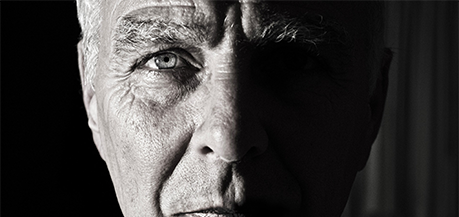
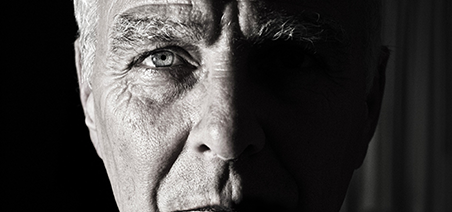
Desktop media query og andre fixes

diff --git a/index.html b/index.html
@@ -10,23 +10,21 @@
 
 <body class="container linkstate">
     <header class="sidehoved">
-        <img class="sh_logo" src="images/PotemkinLogo.jpg" alt="Potemkin Film Logo">
+        <a class="sh_link" href="index.html"><img class="sh_logo" src="images/PotemkinLogo.jpg" alt="Potemkin Film Logo"></a>
         <input class="sh_boks" type="text" placeholder="Søg...">
     </header>
 
     <div class="showreel">
-        <h2 class="fyld_showreeltekst"><a href="https://vimeo.com/299627047" target="_blank">Showreel</a></h2>
         <!--
         <img src="images/Showreel.png" class="fyld_bild">
         -->
         <video src="video/Sequence%2001_1.mp4" class="showreel_video" autoplay loop muted></video>
+        <h2 class="showreel_tekst"><a href="https://vimeo.com/299627047" target="_blank">Showreel</a></h2>
     </div>
 
     <main class="fyld">
-        <div class="fyld_element">
             <h1 class="fyld_header">Om os</h1>
             <p>Lorem ipsum dolor sit amet, consectetur adipiscing elit, sed do eiusmod tempor incididunt ut labore et dolore magna aliqua. Ut enim ad minim veniam, quis nostrud exercitation ullamco laboris nisi ut aliquip ex ea commodo consequat.</p>
-        </div>
 
         <div class="fyld_element">
             <h1 class="fyld_header">Grundhold</h1>
@@ -43,7 +41,7 @@
             <a href="#">
                 <p class="fyld_pris">Priser</p>
             </a>
-            <p class="fyld_tekst">Masterclass i film. Læs mere <a href="#">her</a>.</p>
+            <p class="fyld_tekst">Masterclass inden for film. Læs mere <a href="#">her</a>.</p>
         </div>
 
         <div class="fyld_element">
@@ -61,7 +59,7 @@
             <a href="#">
                 <p class="fyld_pris">Priser</p>
             </a>
-            <p class="fyld_tekst">Vil du lære om foto? Læs mere <a href="#">her</a>.</p>
+            <p class="fyld_tekst">Vil du lære om foto? <br>Læs mere <a href="#">her</a>.</p>
         </div>
 
         <h1 class="fyld_header">Tidligere elever</h1>

diff --git a/css/style.css b/css/style.css
@@ -24,7 +24,7 @@ p
 {
     display: grid;
     grid-template-columns: auto;
-    grid-template-rows: auto auto auto auto;
+    grid-template-rows: auto auto auto auto auto;
     grid-template-areas: 
         "siho"
         "shoree"
@@ -44,6 +44,11 @@ p
 .sh_logo
 {
     align-self: center;
+    width: 100%;
+}
+
+.sh_link
+{
     width: 60%;
 }
 
@@ -51,7 +56,7 @@ p
 {
     height: auto;
     min-width: 0;
-    margin: 10px 0 10px 0;
+    margin: 10px 0 10px auto;
 }
 
 .showreel
@@ -70,20 +75,7 @@ p
     z-index: 1;
 }
 
-.fyld
-{
-    grid-area: fyld;
-    display: flex;
-    flex-direction: column;
-}
-
-.fyld_element
-{
-    position: relative;
-    width: 100%;
-}
-
-.fyld_showreeltekst a
+.showreel_tekst a
 {
     position: absolute;
     left: 50%;
@@ -96,10 +88,23 @@ p
     z-index: 2;
 }
 
-.fyld_showreeltekst:hover a
+.showreel_tekst:hover a
 {
     color: rgba(255, 255, 255, 1);
     border-color: rgba(255, 255, 255, 1);
+}
+
+.fyld
+{
+    display: flex;
+    flex-direction: column;
+    grid-area: fyld;
+}
+
+.fyld_element
+{
+    position: relative;
+    width: 100%;
 }
 
 .fyld_header
@@ -208,3 +213,50 @@ p
     cursor: pointer;
 }
 
+@media only screen and (min-width: 800px)
+{
+    .fyld_element
+    {
+        width: 30%;
+        margin: auto auto 0 auto;
+        align-self: flex-start;
+    }
+    
+    .fyld
+    {
+        flex-direction: row;
+        flex-wrap: wrap;
+    }
+    
+    .fyld_header
+    {
+        width: 100%;
+    }
+    
+    .sh_link
+    {
+        width: 40%;
+    }
+    
+    .sh_boks
+    {
+    }
+    
+    .gmap
+    {
+        height: 500px;
+    }
+    
+    .showreel_video
+    {
+        position: absolute;
+        top: 50%;
+        transform: translateY(-50%);
+    }
+    
+    .showreel
+    {
+        height: 450px;
+        overflow: hidden;
+    }
+}
